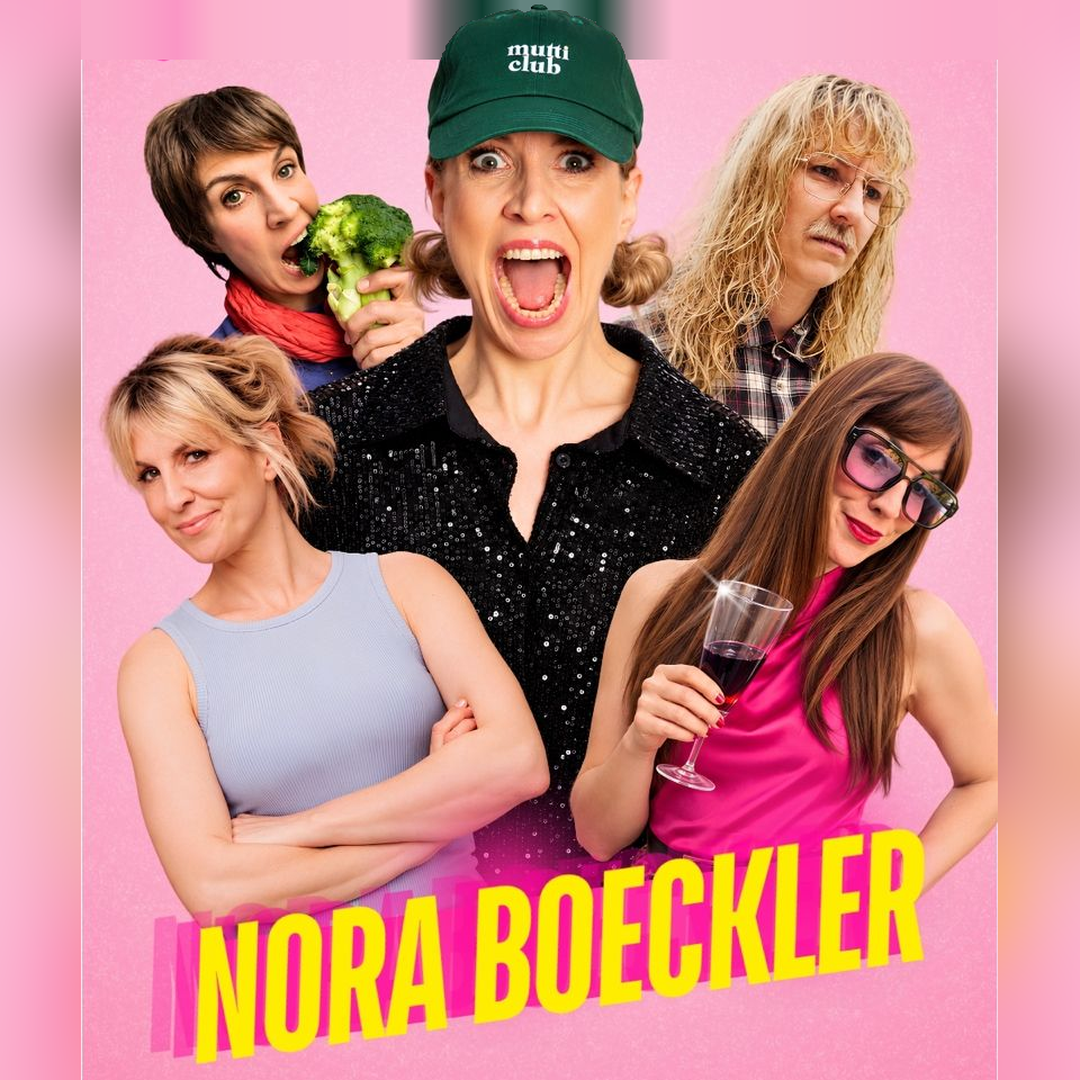
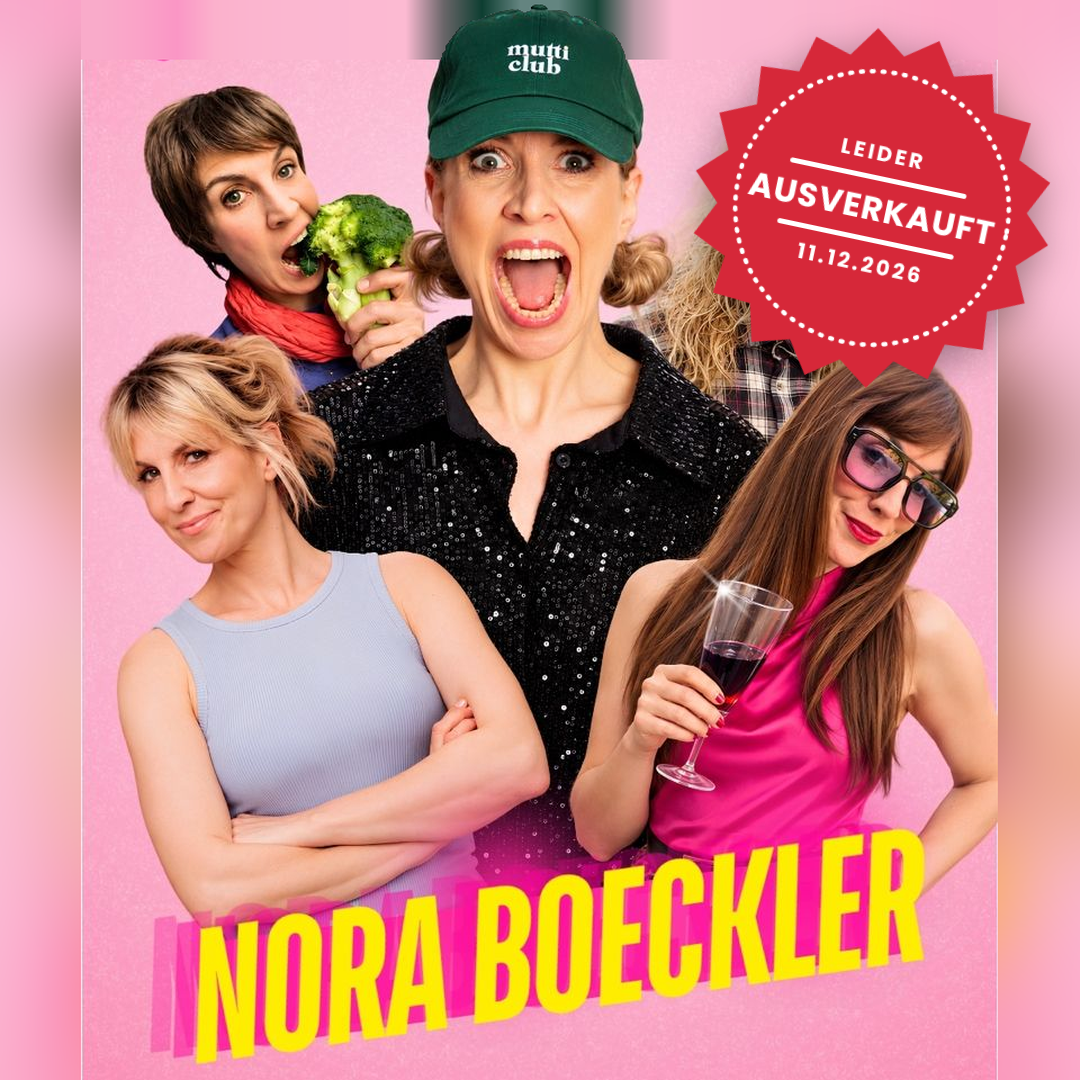
Nora Boeckler: Störer "Ausverkauft" auf dem Veranstaltungsbild
Claude-Session: https://claude.ai/code/session_013RQo6HNfuTMsk2qjjhqrHN

Changed region(s): [[0.6417, 0.0306, 0.9778, 0.3667]]

diff --git a/v2/src/content/veranstaltungen/nora-boeckler.md b/v2/src/content/veranstaltungen/nora-boeckler.md
@@ -2,7 +2,7 @@
 titel: "Nora Boeckler: (fast) alles im Griff"
 kurz: Comedy im Coworking – Nora Boeckler mit ihrem neuen Soloprogramm über Elternschaft, Beziehung und Selbstoptimierung.
 bild: ../../assets/veranstaltungen/nora-boeckler.png
-bildAlt: "Nora Boeckler mit den Figuren aus ihrem Programm (fast) alles im Griff"
+bildAlt: "Ausverkauft: Nora Boeckler mit den Figuren aus ihrem Programm (fast) alles im Griff"
 adresse: Windische Gasse 11A, 37308 Heilbad Heiligenstadt
 termine:
   - { datum: "2026-12-11", von: "19:30", bis: "22:00" }
